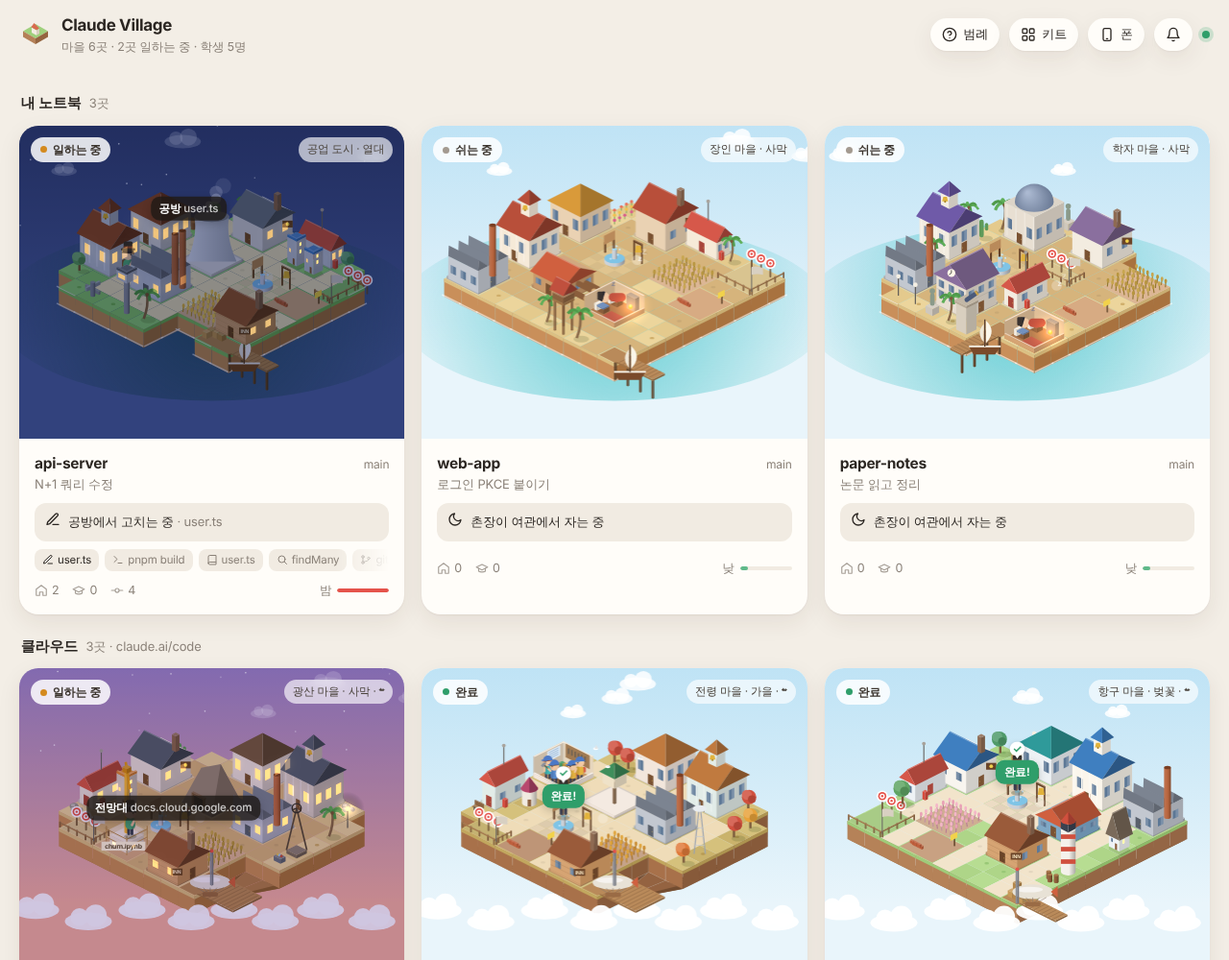
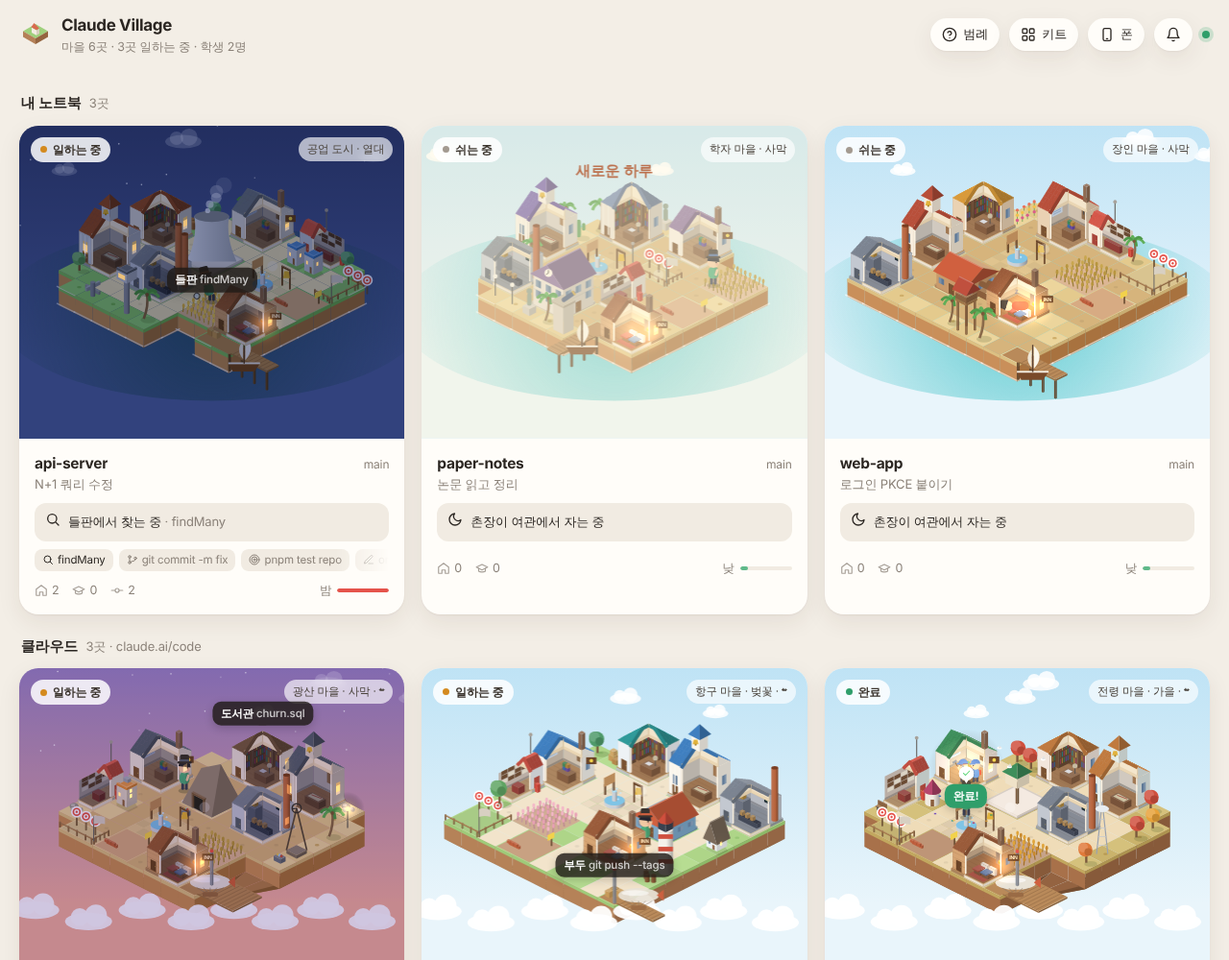
feat(claude-village): Cut core buildings like a cake slice
Each working building has its front corner removed for good, so the
interior is always in view; the cut faces show floor, room, ceiling,
attic and roof as layers. Busy buildings light up, idle ones dim.

Claude-Session: https://claude.ai/code/session_01JKWtqJsz2Cb9ma8R2CN1JG

diff --git a/claude-village/public/kit.js b/claude-village/public/kit.js
@@ -113,151 +113,235 @@ function shelf(c, x, y, w, d, h, along) { // 뒷벽 책장
 const PREFABS = {};
 const def = (id, o) => (PREFABS[id] = { id, ...o });
 
-// ━━ 핵심 건물 (안이 보이는 단면) ━━
+// ━━ 핵심 건물: 케이크처럼 앞쪽 한 조각을 잘라낸 단면 ━━
+// 잘린 면에는 층이 보인다: 바닥판 · 방 · 천장 · 다락 · 지붕. 안에서 일하는 모습이 늘 보인다.
+const CUT = '#fbf2e2', CUT_EDGE = '#d9c3a0', CEIL = '#ead6b4', ATTIC = '#f4e6cc';
+function roofZ(kind, x, y, w, d, H, rh, px, py) {
+  const ax = 1 - Math.abs(px - (x + w / 2)) / (w / 2), ay = 1 - Math.abs(py - (y + d / 2)) / (d / 2);
+  if (kind === 'gableX') return H + rh * ay;
+  if (kind === 'gableY') return H + rh * ax;
+  if (kind === 'hip') return H + rh * Math.min(ax, ay);
+  return H + 3; // flat
+}
+// 지붕을 작은 면으로 나눠 높이대로 칠함 (L자 모양에도 맞음)
+function roofCells(g, x0, y0, x1, y1, zr, rc) {
+  const nx = Math.max(2, Math.round((x1 - x0) * 6)), ny = Math.max(2, Math.round((y1 - y0) * 6));
+  const dx = (x1 - x0) / nx, dy = (y1 - y0) / ny, cells = [];
+  for (let i = 0; i < nx; i++) for (let j = 0; j < ny; j++) cells.push([i, j]);
+  cells.sort((a, b) => a[0] + a[1] - b[0] - b[1]);
+  for (const [i, j] of cells) {
+    const ax = x0 + i * dx, ay = y0 + j * dy, bx = ax + dx, by = ay + dy;
+    const z00 = zr(ax, ay), z10 = zr(bx, ay), z11 = zr(bx, by), z01 = zr(ax, by);
+    const gx = ((z10 - z00) + (z11 - z01)) / 2 / dx, gy = ((z01 - z00) + (z11 - z10)) / 2 / dy;
+    const col = gy < -2 && gy <= gx ? rc : gx < -2 ? shade(rc, -.24) : (gx > 2 || gy > 2) ? shade(rc, .12) : shade(rc, .06);
+    poly(g, [iso(ax, ay, z00), iso(bx, ay, z10), iso(bx, by, z11), iso(ax, by, z01)], col, col, .5);
+  }
+}
+// 세로 면 하나(바닥 z0 ~ 위쪽 윤곽선)를 채움. along: 'x' 면 y 고정, 'y' 면 x 고정
+function profileFace(g, along, fixed, a0, a1, z0, ztop, fill, edge) {
+  const n = 10, top = [];
+  for (let i = 0; i <= n; i++) { const a = lerp(a0, a1, i / n); top.push(along === 'x' ? iso(a, fixed, ztop(a)) : iso(fixed, a, ztop(a))); }
+  const pts = along === 'x' ? [iso(a0, fixed, z0), iso(a1, fixed, z0)] : [iso(fixed, a0, z0), iso(fixed, a1, z0)];
+  poly(g, [pts[0], pts[1], ...top.reverse()], fill, edge, .8);
+  return top.reverse();
+}
+function drawCake(c, s) {
+  const g = c.g, ins = s.inset ?? .1;
+  const x = c.x + ins, y = c.y + ins, w = c.w - ins * 2, d = c.d - ins * 2, H = s.h;
+  const wall = s.wall || pick(c.style.walls, c.seed), rc = s.roof || pick(c.style.roofs, c.seed >>> 3);
+  const inner = s.inner || '#efe2cc', kind = s.roofKind || 'gableX', rh = s.roofH ?? 12, t = .09;
+  const cx = w >= 1.2 ? x + w * .4 : x, cy = d >= 1.2 ? y + d * .4 : y; // 잘라낼 조각: [cx..x+w] × [cy..y+d]
+  const zr = (px, py) => roofZ(kind, x, y, w, d, H, rh, px, py);
+  const busy = !!(c.on || c.inside);
+  // 1. 바닥판(케이크 받침)
+  box(g, x - .05, y - .05, w + .1, d + .1, 2.5, 0, shade(wall, -.2), { top: s.floor || '#c99c6c' });
+  g.save(); g.translate(0, -2.5);
+  // 2. 안쪽 뒷벽 + 바닥 무늬
+  poly(g, [iso(x, y, 0), iso(x + w, y, 0), iso(x + w, y, H), iso(x, y, H)], inner);
+  poly(g, [iso(x, y, 0), iso(x, y + d, 0), iso(x, y + d, H), iso(x, y, H)], shade(inner, -.12));
+  poly(g, [iso(x, y, 0), iso(x + w, y, 0), iso(x + w, y, 2), iso(x, y, 2)], shade(inner, -.25));
+  poly(g, [iso(x, y, 0), iso(x, y + d, 0), iso(x, y + d, 2), iso(x, y, 2)], shade(inner, -.3));
+  for (let i = 1; i < 6; i++) line(g, iso(x, y + d * i / 6), iso(x + w, y + d * i / 6), 'rgba(90,60,30,.12)', .5);
+  // 3. 안쪽 살림 + 사람
+  if (s.interior) s.interior(c, x, y, w, d, H);
+  if (c.inside) c.inside(x, y, w, d, s.spots || [[.7, .7]]);
+  if (!busy) poly(g, [iso(x, y + d), iso(x + w, y + d), iso(x + w, y), iso(x + w, y, H), iso(x, y, H), iso(x, y + d, H)], c.night > .45 ? 'rgba(10,15,40,.35)' : 'rgba(30,30,50,.16)');
+  else if (c.lights) c.lights.push({ x: iso(x + w * .55, y + d * .55, 10)[0], y: iso(x + w * .55, y + d * .55, 10)[1], r: 34, color: 'rgba(255,214,140,.35)' });
+  // 4. 남은 바깥벽 (잘린 끝은 크림색 단면)
+  const door = cx - x >= .5 ? 'L' : 'R';
+  if (cx > x + .01) {
+    box(g, x, y + d - t, cx - x, t, H, 0, wall, { right: CUT, top: CUT });
+    const span = cx - x, n = Math.max(1, Math.round(span * 1.6));
+    for (const [v0, v1] of s.rows || [[H * .42, H * .42 + 6]]) for (let i = 0; i < n; i++) { const u = span * (i + .5) / n; if (door === 'L' && v0 < 10 && Math.abs(u - span / 2) < .25) continue; win(c, faceL(x, y + d - t, t, 0, u - .13, u + .13, v0, v1), busy); }
+    if (door === 'L') doorOn(c, 'L', x, y + d - t, span, t, s.doorColor);
+  }
+  if (cy > y + .01) {
+    box(g, x + w - t, y, t, cy - y, H, 0, wall, { left: CUT, top: CUT, right: shade(wall, -.16) });
+    const span = cy - y, n = Math.max(1, Math.round(span * 1.6));
+    for (const [v0, v1] of s.rows || [[H * .42, H * .42 + 6]]) for (let i = 0; i < n; i++) { const u = span * (i + .5) / n; if (door === 'R' && v0 < 10 && Math.abs(u - span / 2) < .2) continue; win(c, faceR(x + w - t, y, t, 0, u - .12, u + .12, v0, v1), busy); }
+    if (door === 'R') doorOn(c, 'R', x + w - t, y, t, span, s.doorColor);
+  }
+  if (s.decor) s.decor(c, x, y, w, d, H, wall, rc, cx, cy);
+  // 5. 천장 · 다락 · 지붕 — 뒤쪽 덩어리 먼저, 그다음 왼쪽 덩어리
+  const sectionX = (a0, a1) => { // y=cy 평면을 자른 면
+    profileFace(g, 'x', cy, a0, a1, H, (a) => zr(a, cy), ATTIC, CUT_EDGE);
+    poly(g, [iso(a0, cy, H), iso(a1, cy, H), iso(a1, cy, H + 2.5), iso(a0, cy, H + 2.5)], CEIL);
+    const top = []; for (let i = 0; i <= 10; i++) { const a = lerp(a0, a1, i / 10); top.push(iso(a, cy, zr(a, cy))); }
+    g.lineJoin = 'round'; g.strokeStyle = shade(rc, -.1); g.lineWidth = 3; g.beginPath(); top.forEach((p, i) => (i ? g.lineTo(p[0], p[1] + 1.2) : g.moveTo(p[0], p[1] + 1.2))); g.stroke();
+  };
+  const sectionY = (a0, a1) => { // x=cx 평면을 자른 면
+    profileFace(g, 'y', cx, a0, a1, H, (a) => zr(cx, a), shade(ATTIC, -.05), CUT_EDGE);
+    poly(g, [iso(cx, a0, H), iso(cx, a1, H), iso(cx, a1, H + 2.5), iso(cx, a0, H + 2.5)], shade(CEIL, -.06));
+    const top = []; for (let i = 0; i <= 10; i++) { const a = lerp(a0, a1, i / 10); top.push(iso(cx, a, zr(cx, a))); }
+    g.lineJoin = 'round'; g.strokeStyle = shade(rc, -.2); g.lineWidth = 3; g.beginPath(); top.forEach((p, i) => (i ? g.lineTo(p[0], p[1] + 1.2) : g.moveTo(p[0], p[1] + 1.2))); g.stroke();
+  };
+  if (cy > y + .01) { // 뒤쪽 덩어리 [x..x+w] × [y..cy]
+    profileFace(g, 'y', x + w, y, cy, H, (a) => zr(x + w, a), shade(wall, -.16));
+    roofCells(g, x, y, x + w, cy, zr, rc);
+    sectionX(cx, x + w);
+  }
+  if (cx > x + .01) { // 왼쪽 덩어리 [x..cx] × [cy..y+d]
+    profileFace(g, 'x', y + d, x, cx, H, (a) => zr(a, y + d), wall);
+    roofCells(g, x, cy, cx, y + d, zr, rc);
+    sectionY(cy, y + d);
+  }
+  if (s.top) s.top(c, x, y, w, d, H, wall, rc, zr);
+  g.restore();
+  // 6. 바닥판 앞쪽 단면 띠
+  poly(g, [iso(cx, y + d + .05, 0), iso(x + w + .05, y + d + .05, 0), iso(x + w + .05, y + d + .05, 2.5), iso(cx, y + d + .05, 2.5)], shade(CUT, -.06), CUT_EDGE, .6);
+  poly(g, [iso(x + w + .05, cy, 0), iso(x + w + .05, y + d + .05, 0), iso(x + w + .05, y + d + .05, 2.5), iso(x + w + .05, cy, 2.5)], shade(CUT, -.14), CUT_EDGE, .6);
+  if (s.always) s.always(c, x, y, w, d, H, wall, rc);
+}
+
 def('library', { name: '도서관', group: 'core', role: 'library', size: [2, 2], desc: 'Read — 파일을 읽어요',
   draw(c) {
     const grand = c.grand;
-    drawBuilding(c, { h: grand ? 30 : 24, roofKind: grand ? 'dome' : 'hip', roofH: 15, winL: 3, winR: 3, rows: [[9, 18]],
-      roof: grand ? '#7d93b8' : undefined, floor: '#b98a5c', inner: '#efe2cc',
-      decor: grand ? (c, x, y, w, d, h, wall) => { for (let i = 0; i < 4; i++) poly(c.g, faceL(x, y, d, 0, .12 + i * .52, .2 + i * .52, 2, h), shade(wall, .25)); } : null,
+    drawCake(c, { h: grand ? 28 : 24, roofKind: 'hip', roofH: grand ? 18 : 14, roof: grand ? '#6f86b0' : undefined, rows: [[9, 17]], floor: '#b98a5c', inner: '#efe2cc',
+      decor: grand ? (c, x, y, w, d, h, wall, rc, cx) => { for (let i = 0; i < 3; i++) { const u = .1 + i * .3; if (u + .1 < cx - x) poly(c.g, faceL(x, y, d, 0, u, u + .08, 2, h), shade(wall, .25)); } } : null,
       interior(c, x, y, w, d, h) {
-        shelf(c, x, y, w, d, h * .75, 'x'); shelf(c, x, y, w, d, h * .75, 'y');
-        fbox(c, x, y, w * .38, d * .45, w * .42, d * .3, 6, 0, '#9a6b45'); // 책상
-        const [lx, ly] = iso(x + w * .55, y + d * .58, 9); circle(c.g, lx, ly - 3, 2.2, c.on ? '#ffe08a' : '#e8d9b8');
-        if (c.on && c.lights) c.lights.push({ x: lx, y: ly - 3, r: 18, color: 'rgba(255,220,130,.55)' });
-        poly(c.g, [iso(x + w * .45, y + d * .55, 6.2), iso(x + w * .6, y + d * .55, 6.2), iso(x + w * .6, y + d * .65, 6.2), iso(x + w * .45, y + d * .65, 6.2)], '#fff');
-        if (c.on) for (let i = 0; i < 3; i++) { const p = (c.t / 1800 + i / 3) % 1, [bx, by] = iso(x + w * (.3 + i * .2), y + d * .3, 14 + p * 16); c.g.globalAlpha *= 1 - p; c.g.fillStyle = SPINES[i * 3]; c.g.fillRect(bx - 2.5, by - 1.5, 5, 3); c.g.globalAlpha /= Math.max(.01, 1 - p); }
+        shelf(c, x, y, w, d, h * .78, 'x'); shelf(c, x, y, w, d, h * .78, 'y');
+        fbox(c, x, y, w * .5, d * .5, w * .38, d * .28, 6, 0, '#9a6b45'); // 책상
+        poly(c.g, [iso(x + w * .55, y + d * .55, 6.2), iso(x + w * .7, y + d * .55, 6.2), iso(x + w * .7, y + d * .68, 6.2), iso(x + w * .55, y + d * .68, 6.2)], '#fff');
+        const [lx, ly] = iso(x + w * .8, y + d * .58, 9); line(c.g, [lx, ly + 3], [lx, ly - 3], '#5d5a55', .8); circle(c.g, lx, ly - 4, 2.2, c.on ? '#ffe08a' : '#e8d9b8');
+        if (c.on && c.lights) c.lights.push({ x: lx, y: ly - 4, r: 18, color: 'rgba(255,220,130,.6)' });
+        if (c.on) for (let i = 0; i < 3; i++) { const p = (c.t / 1800 + i / 3) % 1, [bx, by] = iso(x + w * (.55 + i * .12), y + d * .45, 12 + p * 16); c.g.save(); c.g.globalAlpha *= 1 - p; c.g.fillStyle = SPINES[i * 3]; c.g.fillRect(bx - 2.5, by - 1.5, 5, 3); c.g.restore(); }
       },
-      spots: [[.4, .78, 'read'], [.78, .5, 'read'], [.25, .55, 'read'], [.62, .82, 'read']] });
+      spots: [[.62, .82, 'read'], [.88, .55, 'read'], [.5, .48, 'stand'], [.82, .85, 'read']] });
   } });
 
 def('workshop', { name: '공방', group: 'core', role: 'workshop', size: [2, 2], desc: 'Edit — 파일을 고쳐요',
   draw(c) {
-    const grand = c.grand;
-    drawBuilding(c, { h: grand ? 26 : 22, roofKind: 'gableX', roofH: grand ? 14 : 12, winL: 2, winR: 2, rows: [[8, 15]], floor: '#c79a6a', inner: '#f0dfc6',
-      top: (c, x, y, w, d, h) => { box(c.g, x + w * .7, y + d * .2, .22, .22, 14, h + 2, '#8e6a52'); },
-      decor: (c, x, y, w, d, h) => { const [sx, sy] = iso(x + w, y + d * .3, h * .62); c.g.fillStyle = '#6a4428'; c.g.fillRect(sx - 1, sy - 4, 9, 6); c.g.fillStyle = '#f2d24b'; circle(c.g, sx + 3.5, sy - 1, 1.6, '#f2d24b'); },
-      interior(c, x, y, w, d, h) {
+    drawCake(c, { h: c.grand ? 24 : 21, roofKind: 'gableX', roofH: c.grand ? 15 : 12, rows: [[8, 14]], floor: '#c79a6a', inner: '#f0dfc6',
+      top: (c, x, y, w, d, h, wall, rc, zr) => box(c.g, x + w * .75, y + d * .15, .2, .2, 14, zr(x + w * .85, y + d * .25) - 3, '#8e6a52'),
+      decor: (c, x, y, w, d) => { const [sx, sy] = iso(x + w, y + d * .22, 15); c.g.fillStyle = '#6a4428'; c.g.fillRect(sx - 1, sy - 4, 9, 6); circle(c.g, sx + 3.5, sy - 1, 1.6, '#f2d24b'); },
+      interior(c, x, y, w, d) {
         const g = c.g;
-        poly(g, [iso(x + .15, y + .02, 6), iso(x + w - .2, y + .02, 6), iso(x + w - .2, y + .02, 18), iso(x + .15, y + .02, 18)], '#a07a52'); // 공구판
-        for (let i = 0; i < 6; i++) { const [tx, ty] = iso(x + .3 + i * (w - .6) / 6, y + .03, 15); g.fillStyle = '#5d5a55'; g.fillRect(tx, ty, 1, 5); }
-        // 설계도
-        poly(g, [iso(x + .02, y + .2, 8), iso(x + .02, y + d * .55, 8), iso(x + .02, y + d * .55, 17), iso(x + .02, y + .2, 17)], '#dbe9f6');
-        for (let i = 0; i < 4; i++) line(g, iso(x + .02, y + .3, 10 + i * 1.8), iso(x + .02, y + d * .5, 10 + i * 1.8), '#7aa0c8', .5);
-        fbox(c, x, y, w * .3, d * .4, w * .5, d * .32, 7, 0, '#9a6b45'); // 작업대
-        // 만드는 중인 블록 (코드 조각)
+        poly(g, [iso(x + w * .45, y + .02, 6), iso(x + w * .95, y + .02, 6), iso(x + w * .95, y + .02, 17), iso(x + w * .45, y + .02, 17)], '#a07a52'); // 공구판
+        for (let i = 0; i < 5; i++) { const [tx, ty] = iso(x + w * (.5 + i * .09), y + .03, 15); g.fillStyle = '#5d5a55'; g.fillRect(tx, ty, 1, 5); }
+        poly(g, [iso(x + .02, y + d * .2, 8), iso(x + .02, y + d * .55, 8), iso(x + .02, y + d * .55, 17), iso(x + .02, y + d * .2, 17)], '#dbe9f6'); // 설계도
+        for (let i = 0; i < 4; i++) line(g, iso(x + .02, y + d * .25, 10 + i * 1.8), iso(x + .02, y + d * .5, 10 + i * 1.8), '#7aa0c8', .5);
+        fbox(c, x, y, w * .5, d * .45, w * .36, d * .26, 7, 0, '#9a6b45'); // 작업대
         const n = 1 + ((c.t / 900) | 0) % 4;
-        for (let i = 0; i < n; i++) fbox(c, x, y, w * .42 + (i % 2) * .18, d * .46, .16, .16, 3, 7 + Math.floor(i / 2) * 3, SPINES[i + 1]);
-        if (c.on && ((c.t / 120) | 0) % 3 === 0) { const [sx, sy] = iso(x + w * .5, y + d * .55, 12); for (let i = 0; i < 4; i++) circle(g, sx + Math.cos(i * 1.6) * 4, sy + Math.sin(i * 1.6) * 3, .8, '#ffe27a'); }
+        for (let i = 0; i < n; i++) fbox(c, x, y, w * .55 + (i % 2) * .16, d * .5, .14, .14, 3, 7 + Math.floor(i / 2) * 3, SPINES[i + 1]);
+        if (c.on && ((c.t / 120) | 0) % 3 === 0) { const [sx, sy] = iso(x + w * .65, y + d * .6, 12); for (let i = 0; i < 4; i++) circle(g, sx + Math.cos(i * 1.6) * 4, sy + Math.sin(i * 1.6) * 3, .8, '#ffe27a'); }
       },
-      spots: [[.55, .85, 'hammer'], [.85, .55, 'hammer'], [.3, .82, 'work'], [.85, .3, 'work']] });
+      spots: [[.72, .82, 'hammer'], [.9, .6, 'hammer'], [.55, .85, 'work'], [.88, .85, 'work']] });
   } });
 
 def('factory', { name: '공장', group: 'core', role: 'factory', size: [2, 2], desc: 'Bash — 명령을 돌려요',
   draw(c) {
     const grand = c.grand;
-    drawBuilding(c, { h: 20, roofKind: 'saw', winL: 3, winR: 2, rows: [[6, 13]], wall: '#c3c8d0', roof: '#7c8491', floor: '#9aa0a8', inner: '#d6d9de', doorColor: '#59606b',
-      always(c, x, y, w, d, h) {
-        const g = c.g, n = grand ? 2 : 1;
-        for (let k = 0; k < n; k++) {
-          const cx = x + w * (.62 + k * .25), cy = y + .25;
-          cylinder(g, cx, cy, .14, 44 + k * 6, 0, '#b8653e', '#7a3e22');
-          const [sx, sy] = iso(cx, cy, 46 + k * 6);
+    drawCake(c, { h: 20, roofKind: 'gableX', roofH: 8, wall: '#c3c8d0', roof: '#7c8491', rows: [[6, 12]], floor: '#9aa0a8', inner: '#d6d9de', doorColor: '#59606b',
+      always(c, x, y, w, d) {
+        const g = c.g;
+        for (let k = 0; k < (grand ? 2 : 1); k++) {
+          const cx = x + w * (.86 - k * .2), cy = y + .14;
+          cylinder(g, cx, cy, .14, 46 + k * 6, 0, '#b8653e', '#7a3e22');
+          const [sx, sy] = iso(cx, cy, 48 + k * 6);
           if (c.on || c.boom) for (let i = 0; i < 5; i++) puff(g, c.t, sx, sy, i + k, c.boom ? 'rgba(60,55,55,.75)' : 'rgba(255,255,255,.85)', c.boom ? 900 : 2200);
         }
-        if (c.boom) { const [ex, ey] = iso(x + w / 2, y + d, 18); for (let i = 0; i < 14; i++) { const a = i / 14 * Math.PI * 2, r = 4 + ((c.t / 40) % 14); g.globalAlpha = clamp(1 - r / 20, 0, 1); circle(g, ex + Math.cos(a) * r, ey + Math.sin(a) * r * .7, 1.8, i % 2 ? '#ff6a3d' : '#ffd23d'); } g.globalAlpha = 1; if (c.lights) c.lights.push({ x: ex, y: ey, r: 30, color: 'rgba(255,120,40,.7)' }); }
+        if (c.boom) { const [ex, ey] = iso(x + w * .7, y + d * .7, 14); for (let i = 0; i < 14; i++) { const a = i / 14 * Math.PI * 2, r = 4 + ((c.t / 40) % 14); g.globalAlpha = clamp(1 - r / 20, 0, 1); circle(g, ex + Math.cos(a) * r, ey + Math.sin(a) * r * .7, 1.8, i % 2 ? '#ff6a3d' : '#ffd23d'); } g.globalAlpha = 1; if (c.lights) c.lights.push({ x: ex, y: ey, r: 30, color: 'rgba(255,120,40,.7)' }); }
       },
-      interior(c, x, y, w, d, h) {
+      interior(c, x, y, w, d) {
         const g = c.g;
-        // 뒷벽 모니터 (명령 출력)
-        poly(g, [iso(x + w * .15, y + .02, 7), iso(x + w * .6, y + .02, 7), iso(x + w * .6, y + .02, 17), iso(x + w * .15, y + .02, 17)], '#1d2a33');
-        for (let i = 0; i < 4; i++) { const len = .1 + ((hash(i + ((c.t / 400) | 0)) % 100) / 100) * .3; line(g, iso(x + w * .18, y + .03, 15 - i * 2), iso(x + w * (.18 + len), y + .03, 15 - i * 2), c.on ? '#7cf0a0' : '#3f6a52', .8); }
-        if (c.on && c.lights) c.lights.push({ pts: [iso(x + w * .15, y + .02, 7), iso(x + w * .6, y + .02, 7), iso(x + w * .6, y + .02, 17), iso(x + w * .15, y + .02, 17)], color: 'rgba(120,240,160,.25)' });
-        // 기계
-        fbox(c, x, y, .1, d * .25, .5, .5, 12, 0, '#7c8491');
-        const pist = c.on ? Math.abs(Math.sin(c.t / 200)) * 5 : 0;
-        fbox(c, x, y, .25, d * .25 + .15, .2, .2, 4, 12 + pist, '#d0a040');
-        // 컨베이어
-        fbox(c, x, y, w * .2, d * .7, w * .75, .26, 4, 0, '#4a5160', { top: '#3a3f4a' });
-        for (let i = 0; i < 3; i++) { const u = ((c.on ? c.t / 2200 : 0) + i / 3) % 1; fbox(c, x, y, w * (.22 + u * .6), d * .72, .18, .18, 3.5, 4, '#c79a5a'); }
+        const scr = [iso(x + w * .45, y + .02, 7), iso(x + w * .92, y + .02, 7), iso(x + w * .92, y + .02, 17), iso(x + w * .45, y + .02, 17)];
+        poly(g, scr, '#1d2a33'); // 뒷벽 모니터 = 명령 출력
+        for (let i = 0; i < 4; i++) { const len = .08 + ((hash(i + ((c.t / 400) | 0)) % 100) / 100) * .3; line(g, iso(x + w * .48, y + .03, 15 - i * 2), iso(x + w * (.48 + len), y + .03, 15 - i * 2), c.on ? '#7cf0a0' : '#3f6a52', .8); }
+        if (c.on && c.lights) c.lights.push({ pts: scr, color: 'rgba(120,240,160,.3)' });
+        fbox(c, x, y, .08, d * .3, .45, .45, 12, 0, '#7c8491'); // 기계
+        fbox(c, x, y, .2, d * .3 + .12, .2, .2, 4, 12 + (c.on ? Math.abs(Math.sin(c.t / 200)) * 5 : 0), '#d0a040');
+        fbox(c, x, y, w * .35, d * .62, w * .6, .24, 4, 0, '#4a5160', { top: '#3a3f4a' }); // 컨베이어
+        for (let i = 0; i < 3; i++) { const u = ((c.on ? c.t / 2200 : 0) + i / 3) % 1; fbox(c, x, y, w * (.37 + u * .5), d * .64, .16, .16, 3.5, 4, '#c79a5a'); }
       },
-      spots: [[.75, .45, 'type'], [.45, .5, 'work'], [.85, .85, 'work']] });
+      spots: [[.68, .45, 'type'], [.6, .86, 'work'], [.9, .8, 'work']] });
   } });
 
 def('hall', { name: '마을회관', group: 'core', role: 'hall', size: [2, 2], desc: '계획 · 서브에이전트에게 일 나누기',
   draw(c) {
-    const grand = c.grand;
-    drawBuilding(c, { h: grand ? 30 : 26, roofKind: 'gableX', roofH: 13, winL: 2, winR: 3, rows: [[10, 19]], floor: '#b7875a', inner: '#f3eadb',
-      decor: (c, x, y, w, d, h, wall) => { for (let i = 0; i < 4; i++) poly(c.g, faceL(x, y, d, 0, .08 + i * w / 4, .16 + i * w / 4, 3, h - 2), shade(wall, .3)); },
-      top(c, x, y, w, d, h, wall, rc) {
-        const g = c.g, tx = x + w * .35, ty = y + d * .35, tz = h + 9;
-        box(g, tx, ty, .5, .5, 12, tz, shade(wall, .05));
-        const sw = c.ring ? Math.sin(c.t / 110) * .35 : 0, [bx, by] = iso(tx + .25, ty + .5, tz + 4);
+    drawCake(c, { h: c.grand ? 28 : 25, roofKind: 'gableX', roofH: 13, rows: [[10, 18]], floor: '#b7875a', inner: '#f3eadb',
+      decor: (c, x, y, w, d, h, wall, rc, cx) => { for (let i = 0; i < 3; i++) { const u = .06 + i * .25; if (u + .08 < cx - x) poly(c.g, faceL(x, y, d, 0, u, u + .07, 3, h - 2), shade(wall, .3)); } },
+      top(c, x, y, w, d, h, wall, rc, zr) {
+        const g = c.g, tx = x + w * .12, ty = y + d * .12, tz = zr(tx + .25, ty + .25) - 2;
+        box(g, tx, ty, .48, .48, 12, tz, shade(wall, .05));
+        const sw = c.ring ? Math.sin(c.t / 110) * .35 : 0, [bx, by] = iso(tx + .24, ty + .48, tz + 4);
         g.save(); g.translate(bx, by - 5); g.rotate(sw); poly(g, [[-2.6, 4], [2.6, 4], [1.6, 0], [-1.6, 0]], '#e2b33c'); circle(g, 0, 4.4, .9, '#a8801f'); g.restore();
-        hip(g, tx, ty, .5, .5, tz + 12, 9, rc);
+        hip(g, tx, ty, .48, .48, tz + 12, 9, rc);
         if (c.ring) for (let i = 0; i < 2; i++) { const p = ((c.t / 800) + i / 2) % 1; g.globalAlpha = 1 - p; g.fillStyle = '#fff'; g.font = '700 9px sans-serif'; g.fillText('♪', bx + 8 + p * 8 - i * 22, by - 10 - p * 12); g.globalAlpha = 1; }
       },
-      interior(c, x, y, w, d, h) {
+      interior(c, x, y, w, d) {
         const g = c.g;
-        // 게시판: 할 일 = 핀
-        poly(g, [iso(x + w * .2, y + .02, 8), iso(x + w * .8, y + .02, 8), iso(x + w * .8, y + .02, 19), iso(x + w * .2, y + .02, 19)], '#b98a5a');
+        const board = [iso(x + w * .45, y + .02, 8), iso(x + w * .95, y + .02, 8), iso(x + w * .95, y + .02, 19), iso(x + w * .45, y + .02, 19)];
+        poly(g, board, '#b98a5a'); // 게시판: 할 일 = 핀
         const todos = Math.min(8, c.state?.todos ?? 3);
-        for (let i = 0; i < todos; i++) { const u = .25 + (i % 4) * .13, v = 16 - Math.floor(i / 4) * 5; poly(g, [iso(x + w * u, y + .03, v - 3), iso(x + w * (u + .09), y + .03, v - 3), iso(x + w * (u + .09), y + .03, v), iso(x + w * u, y + .03, v)], '#fff7d6'); }
-        // 긴 탁자 + 지도
-        fbox(c, x, y, w * .25, d * .42, w * .55, d * .3, 6, 0, '#8a5e3c');
-        poly(g, [iso(x + w * .32, y + d * .46, 6.1), iso(x + w * .72, y + d * .46, 6.1), iso(x + w * .72, y + d * .66, 6.1), iso(x + w * .32, y + d * .66, 6.1)], '#efe2b8');
-        line(g, iso(x + w * .35, y + d * .55, 6.2), iso(x + w * .68, y + d * .5, 6.2), '#c0503e', .7);
-        for (let i = 0; i < 3; i++) fbox(c, x, y, w * (.3 + i * .17), d * .78, .14, .14, 4, 0, '#6a4428');
+        for (let i = 0; i < todos; i++) { const u = .5 + (i % 4) * .11, v = 16 - Math.floor(i / 4) * 5; poly(g, [iso(x + w * u, y + .03, v - 3), iso(x + w * (u + .08), y + .03, v - 3), iso(x + w * (u + .08), y + .03, v), iso(x + w * u, y + .03, v)], '#fff7d6'); }
+        fbox(c, x, y, w * .45, d * .5, w * .45, d * .24, 6, 0, '#8a5e3c'); // 탁자 + 지도
+        poly(g, [iso(x + w * .5, y + d * .53, 6.1), iso(x + w * .85, y + d * .53, 6.1), iso(x + w * .85, y + d * .7, 6.1), iso(x + w * .5, y + d * .7, 6.1)], '#efe2b8');
+        line(g, iso(x + w * .53, y + d * .6, 6.2), iso(x + w * .82, y + d * .56, 6.2), '#c0503e', .7);
       },
-      spots: [[.5, .25, 'stand'], [.35, .85, 'sit'], [.55, .85, 'sit'], [.72, .85, 'sit'], [.85, .55, 'stand']] });
+      spots: [[.65, .4, 'stand'], [.6, .85, 'sit'], [.8, .85, 'sit'], [.92, .62, 'stand'], [.45, .85, 'sit']] });
   } });
 
 def('post', { name: '우체국', group: 'core', role: 'post', size: [1, 2], desc: 'MCP · 외부 도구와 연락해요',
   draw(c) {
-    drawBuilding(c, { h: c.grand ? 22 : 17, roofKind: c.w >= c.d ? 'gableX' : 'gableY', roofH: 9, roof: '#d6584a', winL: 1, winR: 2, rows: [[6, 12]], floor: '#c9a477', inner: '#f6e6d6', doorColor: '#a8453a',
-      top(c, x, y, w, d, h) {
-        const g = c.g, [ax, ay] = iso(x + w / 2, y + d / 2, h + 8);
+    drawCake(c, { h: c.grand ? 21 : 17, roofKind: c.w >= c.d ? 'gableX' : 'gableY', roofH: 9, roof: '#d6584a', rows: [[6, 12]], floor: '#c9a477', inner: '#f6e6d6', doorColor: '#a8453a',
+      top(c, x, y, w, d, h, wall, rc, zr) {
+        const g = c.g, ax0 = x + w * .5, ay0 = y + d * .18, [ax, ay] = iso(ax0, ay0, zr(ax0, ay0));
         line(g, [ax, ay], [ax, ay - 16], '#6d6a66', 1); circle(g, ax, ay - 17, 1.6, c.on ? '#ff5d4f' : '#a8a29a');
         if (c.on) { for (let r = 1; r <= 3; r++) { const p = ((c.t / 900) + r / 3) % 1; g.globalAlpha = 1 - p; g.strokeStyle = 'rgba(255,190,80,.95)'; g.lineWidth = 1.2; g.beginPath(); g.arc(ax, ay - 17, 3 + p * 12, -2.6, -.5); g.stroke(); } g.globalAlpha = 1; }
       },
       always(c, x, y, w, d) {
-        box(c.g, x + w + .05, y + d * .7, .16, .16, 7, 0, '#d84a3c');
-        if (c.on) { const p = (c.t / 3000) % 1, [ax, ay] = iso(x + w / 2, y + d / 2, 30); const bx = ax + p * 110, by = ay - Math.sin(p * Math.PI) * 26; c.g.globalAlpha = 1 - p * .6; ellipse(c.g, bx, by, 3.2, 2, '#fff'); poly(c.g, [[bx - 1, by], [bx + 1, by - 3 - ((c.t / 140 | 0) % 2) * 2], [bx + 3, by]], '#e9e4dc'); c.g.globalAlpha = 1; }
+        box(c.g, x + w + .05, y + d * .2, .16, .16, 7, 0, '#d84a3c');
+        if (c.on) { const p = (c.t / 3000) % 1, [ax, ay] = iso(x + w / 2, y + d * .2, 30); const bx = ax + p * 110, by = ay - Math.sin(p * Math.PI) * 26; c.g.globalAlpha = 1 - p * .6; ellipse(c.g, bx, by, 3.2, 2, '#fff'); poly(c.g, [[bx - 1, by], [bx + 1, by - 3 - ((c.t / 140 | 0) % 2) * 2], [bx + 3, by]], '#e9e4dc'); c.g.globalAlpha = 1; }
       },
-      interior(c, x, y, w, d, h) {
+      interior(c, x, y, w, d) {
         const g = c.g, along = w >= d ? 'x' : 'y';
-        // 분류함
-        for (let r = 0; r < 3; r++) for (let k = 0; k < 4; k++) {
-          const z = 6 + r * 4;
-          if (along === 'y') { const v = .1 + k * (d - .2) / 4; poly(g, [iso(x + .02, y + v, z), iso(x + .02, y + v + (d - .2) / 4 - .04, z), iso(x + .02, y + v + (d - .2) / 4 - .04, z + 3.4), iso(x + .02, y + v, z + 3.4)], (k + r) % 3 ? '#7a5434' : '#fff6e0'); }
-          else { const u = .1 + k * (w - .2) / 4; poly(g, [iso(x + u, y + .02, z), iso(x + u + (w - .2) / 4 - .04, y + .02, z), iso(x + u + (w - .2) / 4 - .04, y + .02, z + 3.4), iso(x + u, y + .02, z + 3.4)], (k + r) % 3 ? '#7a5434' : '#fff6e0'); }
+        for (let r = 0; r < 3; r++) for (let k = 0; k < 4; k++) { // 분류함
+          const z = 6 + r * 4, col = (k + r) % 3 ? '#7a5434' : '#fff6e0';
+          if (along === 'y') { const v = .1 + k * (d - .2) / 4; poly(g, [iso(x + .02, y + v, z), iso(x + .02, y + v + (d - .2) / 4 - .04, z), iso(x + .02, y + v + (d - .2) / 4 - .04, z + 3.4), iso(x + .02, y + v, z + 3.4)], col); }
+          else { const u = .1 + k * (w - .2) / 4; poly(g, [iso(x + u, y + .02, z), iso(x + u + (w - .2) / 4 - .04, y + .02, z), iso(x + u + (w - .2) / 4 - .04, y + .02, z + 3.4), iso(x + u, y + .02, z + 3.4)], col); }
         }
-        fbox(c, x, y, w * .45, d * .3, w * .4, d * .4, 6, 0, '#a8453a'); // 창구
-        if (c.on) for (let i = 0; i < 3; i++) { const p = (c.t / 1300 + i / 3) % 1, [lx, ly] = iso(x + w * .5, y + d * (.3 + p * .4), 8 + Math.sin(p * Math.PI) * 10); c.g.fillStyle = '#fff'; c.g.fillRect(lx - 2, ly - 1.4, 4, 2.8); }
+        fbox(c, x, y, w * .4, d * .55, w * .5, d * .2, 6, 0, '#a8453a'); // 창구
+        if (c.on) for (let i = 0; i < 3; i++) { const p = (c.t / 1300 + i / 3) % 1, [lx, ly] = iso(x + w * .5, y + d * (.45 + p * .4), 8 + Math.sin(p * Math.PI) * 10); g.fillStyle = '#fff'; g.fillRect(lx - 2, ly - 1.4, 4, 2.8); }
       },
-      spots: [[.6, .82, 'work'], [.3, .55, 'stand']] });
+      spots: [[.6, .88, 'work'], [.4, .5, 'stand']] });
   } });
 
 def('inn', { name: '여관', group: 'core', role: 'inn', size: [2, 2], desc: '쉬는 중 — 촌장이 자요',
   draw(c) {
-    drawBuilding(c, { h: 18, roofKind: 'gableX', roofH: 12, wall: '#d6a473', roof: '#9a5b3a', winL: 2, winR: 2, rows: [[6, 12]], floor: '#b07a4e', inner: '#e9c79e', doorColor: '#6a4428',
-      wallOpt: { left: '#d6a473', right: '#b98858', top: '#e3b98b' },
-      decor: (c, x, y, w, d) => { for (let i = 0; i < 4; i++) poly(c.g, faceL(x, y, d, 0, 0, w, i * 4.5 + 1, i * 4.5 + 1.3), 'rgba(110,70,40,.25)'); const [sx, sy] = iso(x + w * .78, y + d, 9); c.g.fillStyle = '#6a4428'; c.g.fillRect(sx, sy - 3, 10, 6); c.g.fillStyle = '#f6e4c0'; c.g.font = '700 4.5px sans-serif'; c.g.fillText('INN', sx + 1.3, sy + 1.6); },
-      top(c, x, y, w, d, h) { box(c.g, x + w * .7, y + d * .25, .22, .22, 15, h + 2, '#8e6a52'); },
-      always(c, x, y, w, d, h) { const [cx, cy] = iso(x + w * .81, y + d * .36, h + 19); puff(c.g, c.t, cx, cy, 0, 'rgba(255,255,255,.5)', 3000);
-        if (c.on) for (let i = 0; i < 3; i++) { const p = ((c.t / 2400) + i / 3) % 1; c.g.globalAlpha = (1 - p) * .9; c.g.fillStyle = '#fff'; c.g.font = `700 ${7 + i * 2}px sans-serif`; c.g.fillText('z', cx + 6 + p * 10, cy - 6 - p * 18); c.g.globalAlpha = 1; } },
-      interior(c, x, y, w, d, h) {
+    drawCake(c, { h: 18, roofKind: 'gableX', roofH: 12, wall: '#d6a473', roof: '#9a5b3a', rows: [[6, 12]], floor: '#b07a4e', inner: '#e9c79e', doorColor: '#6a4428',
+      decor: (c, x, y, w, d, h, wall, rc, cx, cy) => { for (let i = 0; i < 4; i++) poly(c.g, faceL(x, y, d, 0, 0, cx - x, i * 4.5 + 1, i * 4.5 + 1.3), 'rgba(110,70,40,.25)'); const [sx, sy] = iso(x + w, y + (cy - y) * .5, 12); c.g.fillStyle = '#6a4428'; c.g.fillRect(sx, sy - 3, 10, 6); c.g.fillStyle = '#f6e4c0'; c.g.font = '700 4.5px sans-serif'; c.g.fillText('INN', sx + 1.3, sy + 1.6); },
+      top: (c, x, y, w, d, h, wall, rc, zr) => box(c.g, x + w * .7, y + d * .12, .2, .2, 14, zr(x + w * .8, y + d * .22) - 3, '#8e6a52'),
+      always(c, x, y, w, d, h) { const [cx, cy] = iso(x + w * .8, y + d * .22, h + 26); puff(c.g, c.t, cx, cy, 0, 'rgba(255,255,255,.5)', 3000); },
+      interior(c, x, y, w, d) {
         const g = c.g;
-        // 벽난로
-        fbox(c, x, y, w * .55, .02, .5, .25, 12, 0, '#9a8a7a');
-        const fl = 1 + Math.sin(c.t / 120) * .3, [fx, fy] = iso(x + w * .55 + .25, y + .28, 3);
+        fbox(c, x, y, w * .55, .02, .5, .22, 12, 0, '#9a8a7a'); // 벽난로
+        const fl = 1 + Math.sin(c.t / 120) * .3, [fx, fy] = iso(x + w * .55 + .25, y + .26, 3);
         circle(g, fx, fy, 2.4 * fl, '#ff9a3a'); circle(g, fx, fy - 1, 1.3 * fl, '#ffe27a');
         if (c.lights) c.lights.push({ x: fx, y: fy, r: 22, color: 'rgba(255,150,60,.5)' });
-        // 침대 둘
-        for (let i = 0; i < 2; i++) { fbox(c, x, y, .1, .15 + i * d * .45, .55, .35, 4, 0, '#8a5e3c'); fbox(c, x, y, .1, .15 + i * d * .45, .16, .35, 5.5, 0, '#f4efe4'); fbox(c, x, y, .26, .15 + i * d * .45, .38, .35, 1, 4, i ? '#5b7fb5' : '#c0503e'); }
-        poly(g, [iso(x + w * .4, y + d * .5), iso(x + w * .85, y + d * .5), iso(x + w * .85, y + d * .9), iso(x + w * .4, y + d * .9)], '#c25d4a');
+        poly(g, [iso(x + w * .45, y + d * .45), iso(x + w * .95, y + d * .45), iso(x + w * .95, y + d * .95), iso(x + w * .45, y + d * .95)], '#c25d4a'); // 깔개
+        for (let i = 0; i < 2; i++) { const bx = w * (.5 + i * .25); fbox(c, x, y, bx, d * .5, .36, .55, 4, 0, '#8a5e3c'); fbox(c, x, y, bx, d * .5, .36, .14, 5.5, 0, '#f4efe4'); fbox(c, x, y, bx, d * .64, .36, .4, 1, 4, i ? '#5b7fb5' : '#c0503e'); }
       },
-      spots: [[.2, .25, 'sleep'], [.2, .7, 'sleep'], [.65, .7, 'sit']] });
+      spots: [[.58, .62, 'sleep'], [.83, .62, 'sleep'], [.6, .9, 'sit']] });
   } });
 
 // ━━ 특색 건물 (마을 스타일마다) ━━

diff --git a/claude-village/public/kit.html b/claude-village/public/kit.html
@@ -25,9 +25,9 @@
 <body>
 <header><div class="bar"><div class="brand"><div><h1>Village Kit</h1><p>마을을 만드는 조각들 · <span id="total"></span></p></div></div><a class="icon-btn" href="./">← 마을로</a></div></header>
 <main>
-  <p class="intro">마을 하나 = 세션 하나. 세션이 많이 하는 일로 <b>마을 스타일</b>이 정해지고, 레포마다 <b>바이옴(지형 색)</b>이 고정돼요. 스타일이 지도 템플릿, 특색 건물, 전망대, 소품, 지붕 색을 고르고, 그 위에 아래 조각들을 조합해요. 일이 벌어지는 핵심 건물은 지붕이 열려 단면이 보여요.</p>
+  <p class="intro">마을 하나 = 세션 하나. 세션이 많이 하는 일로 <b>마을 스타일</b>이 정해지고, 레포마다 <b>바이옴(지형 색)</b>이 고정돼요. 스타일이 지도 템플릿, 특색 건물, 전망대, 소품, 지붕 색을 고르고, 그 위에 아래 조각들을 조합해요. 일하는 건물(도서관·공방·공장·회관·우체국·여관)은 케이크처럼 앞쪽 한 조각이 잘려 있어서 안이 늘 보여요.</p>
   <div class="section"><h2>마을 스타일</h2><span class="count">6</span></div><div class="kit wide" id="styles"></div>
-  <div class="section"><h2>핵심 건물 — 겉모습 / 단면</h2><span class="count" id="nCore"></span></div><div class="kit" id="core"></div>
+  <div class="section"><h2>핵심 건물 — 케이크처럼 잘린 단면</h2><span class="count" id="nCore"></span></div><div class="kit" id="core"></div>
   <div class="section"><h2>야외 구역 — 평소 / 일할 때</h2><span class="count" id="nZone"></span></div><div class="kit" id="zones"></div>
   <div class="section"><h2>특색 건물</h2><span class="count" id="nExtra"></span></div><div class="kit" id="extras"></div>
   <div class="section"><h2>전망대</h2><span class="count" id="nLook"></span></div><div class="kit" id="looks"></div>
@@ -62,8 +62,8 @@ const samplePeople = (role) => (x, y, w, d, spots) => spots.slice(0, 3).forEach(
 // 핵심 건물: 겉 / 단면
 const core = Object.values(PREFABS).filter((p) => p.group === 'core');
 for (const pf of core) {
-  cell('core', pf.name, pf.desc, ['겉모습'], (g, t) => { const [w, d] = pf.size; centerFor(w, d, 18); groundPatch(g, w, d); pf.draw(ctxFor(g, t, pf, { on: false, open: 0 })); });
-  cell('core', pf.name + ' 단면', '일할 때 지붕이 열려요', ['단면', '일하는 중'], (g, t) => { const [w, d] = pf.size; centerFor(w, d, 18); groundPatch(g, w, d); window.__g = g; pf.draw(ctxFor(g, t, pf, { on: true, open: 1, inside: samplePeople() })); });
+  cell('core', pf.name, pf.desc, ['비었을 때'], (g, t) => { const [w, d] = pf.size; centerFor(w, d, 18); groundPatch(g, w, d); pf.draw(ctxFor(g, t, pf, { on: false, open: 0 })); });
+  cell('core', pf.name + ' · 일할 때', '불이 켜지고 안에서 일해요', ['일하는 중'], (g, t) => { const [w, d] = pf.size; centerFor(w, d, 18); groundPatch(g, w, d); window.__g = g; pf.draw(ctxFor(g, t, pf, { on: true, open: 1, inside: samplePeople() })); });
 }
 document.getElementById('nCore').textContent = core.length + '종';
 

diff --git a/claude-village/README.md b/claude-village/README.md
@@ -1,7 +1,7 @@
 # 🏘 Claude Village
 
 Claude Code 세션 하나가 섬마을 하나가 돼요. 노트북 세션은 바다 위 섬, claude.ai/code 클라우드 세션은 구름 위 섬으로 나와요.
-촌장은 메인 Claude, 학생은 서브에이전트예요. 일이 벌어지는 건물은 지붕이 열려서 안쪽 단면이 보여요.
+촌장은 메인 Claude, 학생은 서브에이전트예요. 일하는 건물은 케이크처럼 앞쪽 한 조각이 잘려 있어서 안이 늘 보여요. 잘린 면에는 바닥판 · 방 · 천장 · 다락 · 지붕이 층으로 보이고, 쓰는 중인 건물은 불이 켜져요.
 
 ```bash
 node claude-village/server.js --demo          # 가짜 마을로 구경
@@ -53,7 +53,7 @@ Node 18 이상 · 설치할 패키지 없음
 
 `public/kit.js` 에 조각이 다 들어 있어요. `/kit.html` 에서 전부 볼 수 있어요.
 
-- 핵심 건물 6 (겉모습 + 단면, 스타일에 따라 크게 지어지는 버전)
+- 핵심 건물 6 (케이크 단면, 스타일에 따라 크게 지어지는 버전)
 - 야외 구역 5 (광장, 들판, 공터, 훈련장, 부두)
 - 특색 건물 20 · 전망대 6 · 집 5 · 소품/나무 20
 - 바이옴 6 · 스타일 6 · 지도 템플릿 3×2 · 사람 자세 13
